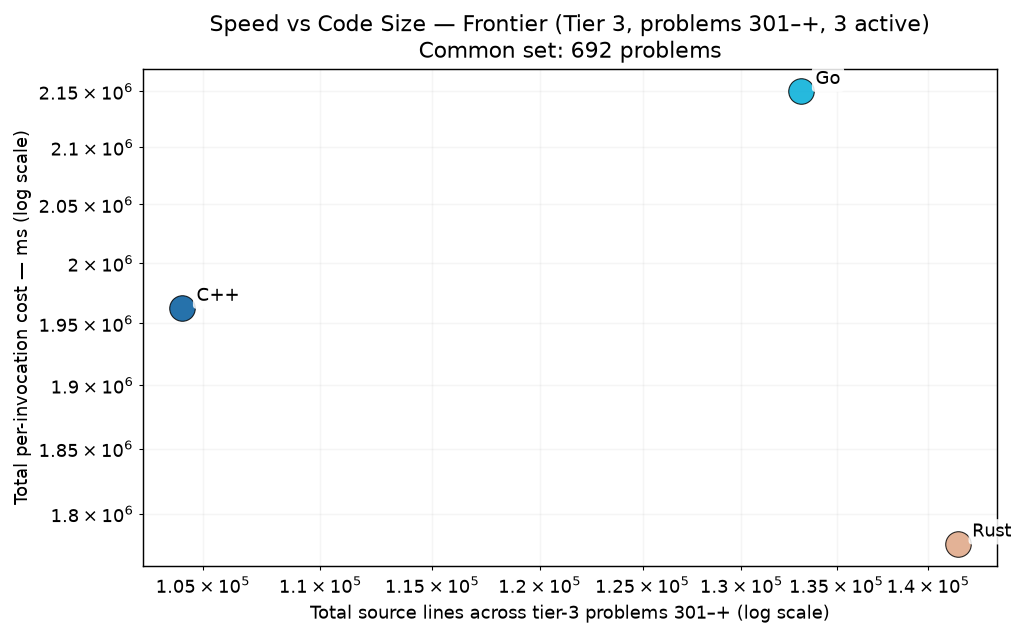
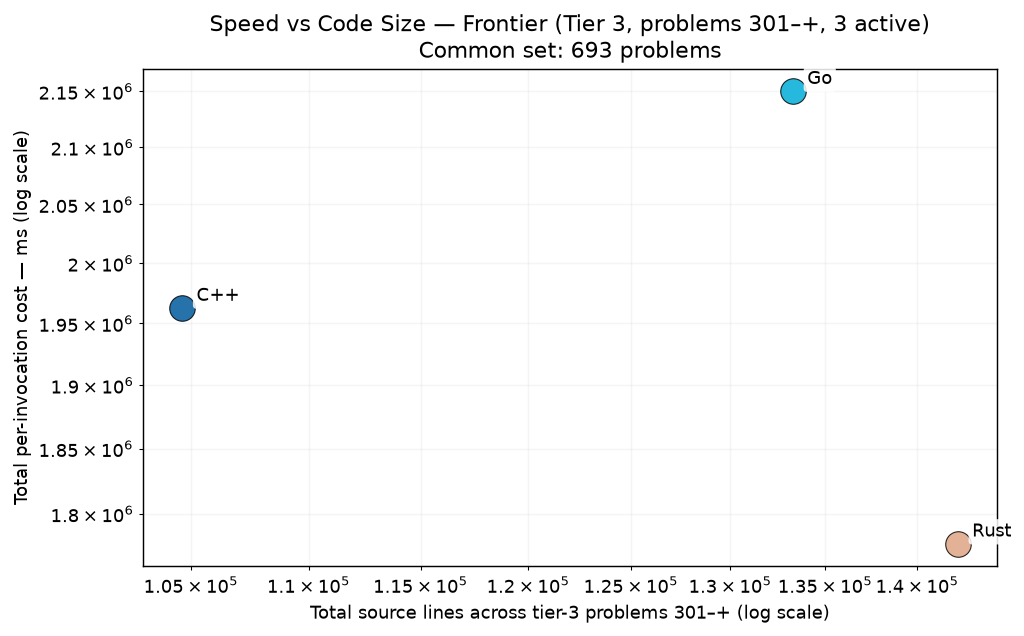
cpp p0964

Changed region(s): [[0.1562, 0.8962, 0.9375, 0.956], [0.75, 0.0896, 0.8125, 0.1792]]

diff --git a/RESULTS.md b/RESULTS.md
@@ -1,6 +1,6 @@
 # Project Euler — Cross-Language Benchmarks
 
-> **Scope: 4521 in-scope cells across 1007 problems × tiered languages — 4488 measured (99.3% coverage).**
+> **Scope: 4521 in-scope cells across 1007 problems × tiered languages — 4489 measured (99.3% coverage).**
 > The cross-language ranking below is computed over the **200-problem common set** (problems in 1-200 where every language has a passing measurement) — the apples-to-apples Foundation comparison surface.  Per-tier rankings and coverage detail appear further below.
 > Growing carefully — each new problem and language is audited for state-leak
 > safety, verified for answer correctness, and added only when it cleanly fits the
@@ -70,15 +70,15 @@ Same scatter as the Foundation chart, restricted to the tier-2 active languages 
 
 The frontier verification trio — C++, Go, Rust — on problems above 300. 3-way cross-language agreement is the verification protocol (strictly stronger than 2-way; see JOURNEY.md "Tier Reframing" episode for the p254 lesson that motivated it). Python and Zig are explicitly out of this tier — python's wall cost makes it impractical at level 5+, and zig's role caps at Tier 2.
 
-### Per-Invocation Cost (Common Set, 692 of ≤707 problems in scope)
+### Per-Invocation Cost (Common Set, 693 of ≤707 problems in scope)
 
 ![Per-Invocation Cost — Tier 3](charts/per_iter_total_tier3.png)
 
-| Rank | Language | Geomean (692-problem common set) | Total (sum) | Lines of code | vs Fastest |
+| Rank | Language | Geomean (693-problem common set) | Total (sum) | Lines of code | vs Fastest |
 |------|----------|--------------------:|------------:|--------------:|-----------:|
-| 1 | **Rust** | 77.14 ms | 1777.44 s | 141,650 | 1.00× |
-| 2 | **C++** | 80.95 ms | 1962.62 s | 104,126 | 1.05× |
-| 3 | **Go** | 89.93 ms | 2150.04 s | 133,113 | 1.17× |
+| 1 | **Rust** | 76.68 ms | 1777.44 s | 142,272 | 1.00× |
+| 2 | **C++** | 80.18 ms | 1962.62 s | 104,625 | 1.05× |
+| 3 | **Go** | 89.05 ms | 2150.04 s | 133,273 | 1.16× |
 
 ### Speed vs Code Size
 
@@ -264,7 +264,7 @@ table never silently mixes versions (METHODOLOGY.md §4).  Current state of the
 |----------|-----------|------:|---------------|
 | **ARM64** | `Apple clang version 21.0.0 (clang-2100.1.1.101)` | 200 | 2026-07-30 |
 | **C** | `Apple clang version 21.0.0 (clang-2100.1.1.101)` | 200 | 2026-07-30 |
-| **C++** | `Apple clang version 21.0.0 (clang-2100.1.1.101)` | 992 | 2026-09-08 |
+| **C++** | `Apple clang version 21.0.0 (clang-2100.1.1.101)` | 993 | 2026-09-08 |
 | **C#** | `10.0.101` | 200 | 2026-07-30 |
 | **Go** | `go version go1.26.5 darwin/arm64` | 994 | 2026-09-08 |
 | **Java** | `openjdk version "21.0.2" 2024-01-16 LTS` | 200 | 2026-07-30 |

diff --git a/per_problem/per_problem_0901-1000.md b/per_problem/per_problem_0901-1000.md
@@ -71,7 +71,7 @@ in tier-1 display order (native → managed → interpreted).
 | **p0961** | 5.73 ms | 2.17 ms | 6.97 ms |
 | **p0962** | 1.07 s | 1.85 s | 744.08 ms |
 | **p0963** | 17.93 s | 45.29 ms | 74.42 ms |
-| **p0964** | — | 1.28 ms | 15.7 µs~ |
+| **p0964** | 109.5 µs | 1.28 ms | 15.7 µs~ |
 | **p0965** | 233.52 ms | 411.01 ms | 341.18 ms |
 | **p0966** | — | 220.15 ms | — |
 | **p0967** | 356.64 ms | 266.93 ms | 470.80 ms |
